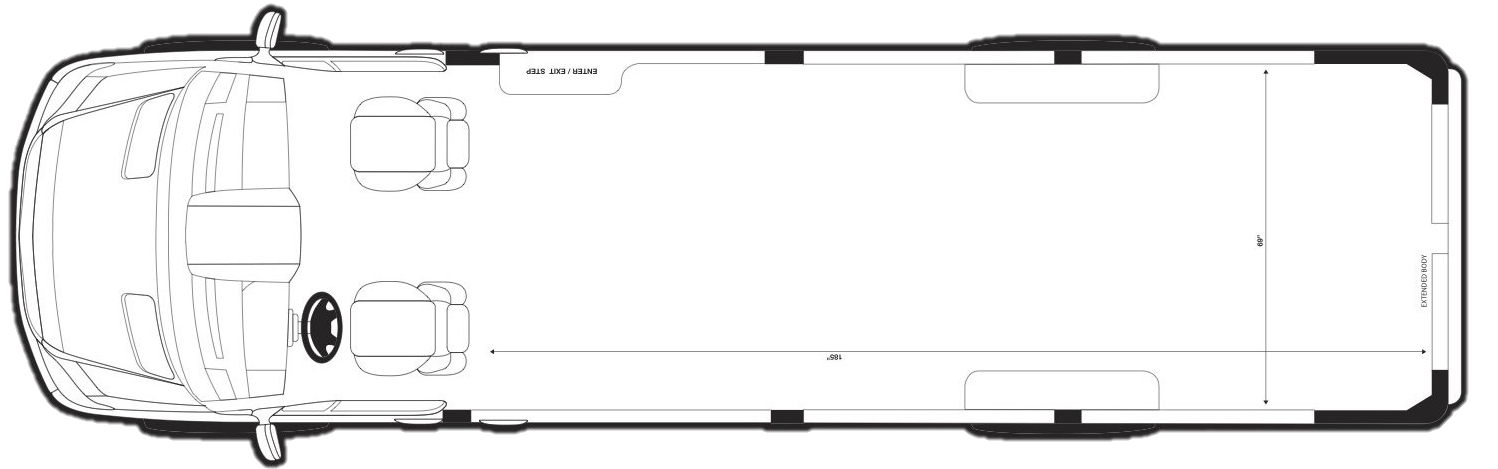
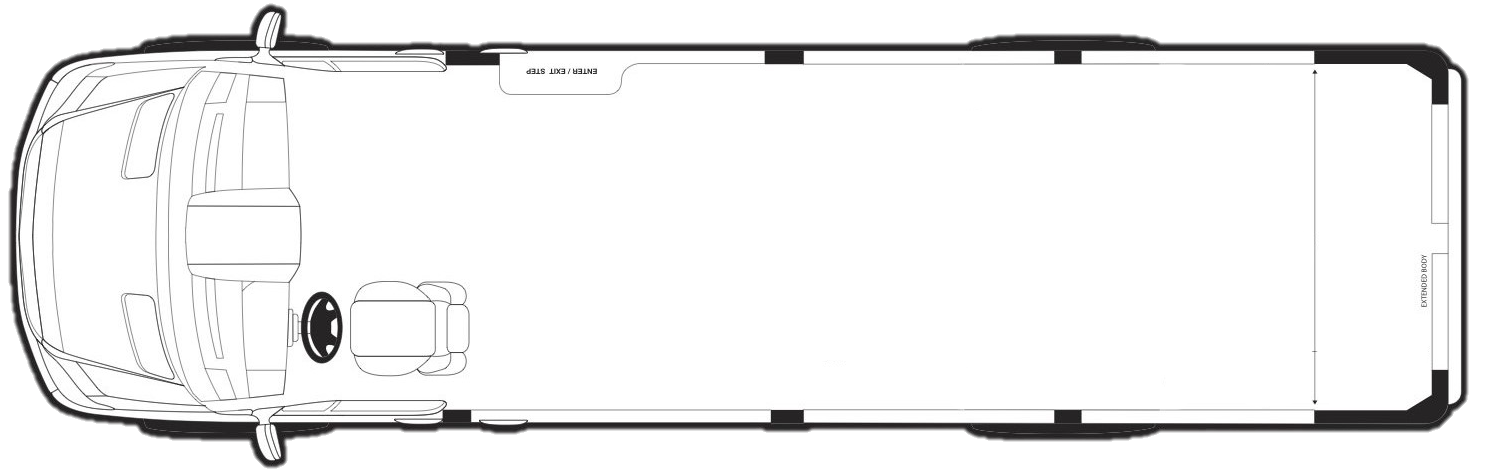
señalamientos y asientos diseño

diff --git a/assets/css/style.css b/assets/css/style.css
@@ -15,3 +15,85 @@
 .color-icono{
 	color: #000
 }
+/**
+ * diseño de los asientos dentro del camion
+ */
+.contenedor{
+    position: relative;
+    display: inline-block;
+    text-align: center;
+    width: 750px
+}
+ /*asientos centrales*/
+.texto-encima{
+    position: absolute;
+    top: 105px;
+    left: 250px;
+}
+/*asientos de lado del conductor*/
+.asiento-front{
+    position: absolute;
+    top: 35px;
+    left: 180px;
+}
+/*asientos del lado de la puerta*/
+.asiento-left{
+  position: absolute;
+  top: 35px;
+  left: 330px; 
+}
+/*asientos traseros 4*/
+.asiento-atras{
+  position: absolute;
+  top: 30px;
+  left: 565px; 
+}
+/*tamaño de los td en las tablas*/
+td{
+  width: 80px;
+  height: 40px
+}
+.scroll{
+  overflow-x: auto;
+    width: auto
+}
+/*fin del diseño de los asientos*/
+/**
+ * comienza diseño del marcador de señalamientos
+ */
+.disponible {
+ width: 20px; 
+ height: 20px; 
+ background: #419032;     
+ float: left;
+ border-radius: 4px;
+ box-shadow: -1px 1px 2px 0px rgba(0,0,0,0.75);
+}
+.ocupado {
+ width: 20px; 
+ height: 20px; 
+ background: #ED402E;
+ float: left;
+ border-radius: 4px;
+ box-shadow: -1px 1px 2px 0px rgba(0,0,0,0.75);
+},
+.text {      
+  float: left;
+}
+.margenes{
+  margin-left: 30px;
+}
+.margen{
+  margin-top: 5px
+}
+.selectc {
+ width: 20px; 
+ height: 20px; 
+ background: #D4BE33;
+ float: left;
+ border-radius: 4px;
+ box-shadow: -1px 1px 2px 0px rgba(0,0,0,0.75);
+}
+/**
+ * termina diseño de señalamientos
+ */

diff --git a/application/views/admin/corridas/corridas.php b/application/views/admin/corridas/corridas.php
@@ -1,25 +1,3 @@
-      <style type="text/css">
-        .contenedor{
-            position: relative;
-            display: inline-block;
-            text-align: center;
-            width: 750px
-        }
-         
-        .texto-encima{
-            position: absolute;
-            top: 40px;
-            left: 270px;
-        }
-        td{
-          width: 85px;
-          height: 50px
-        }
-        .scroll{
-          overflow-x: scroll;
-            width: auto
-        }
-      </style>
       <!-- Vista de contenido de las corridas -->
       <div class="row">
         <div class="col-md-8">
@@ -54,38 +32,61 @@
                   <div class="scroll">
                     <div class="contenedor">
                       <img src="<?= base_url() ?>assets/img/buss.png" width="700"><br><br><br>
-                      <!-- <div class="texto-encima">Texto</div> -->
-                      <table class="texto-encima">
+                      <!-- Asientos del lado del conductor -->
+                      <table class="asiento-front">
                         <tr>
-                          <td></td>
                           <td style="background: url('<?= base_url() ?>assets/img/asiento.jpg') no-repeat center center;background-size:50px">2</td>
-                          <td style="background: url('<?= base_url() ?>assets/img/asiento.jpg') no-repeat center center;background-size:50px">3</td>
-                          <td style="background: url('<?= base_url() ?>assets/img/asiento.jpg') no-repeat center center;background-size:50px">4</td>
-                          <!-- <td style="background: url('<?= base_url() ?>assets/img/asiento.jpg') no-repeat center center;background-size:50px">5</td> -->
                         </tr>
-                         <tr>
+                        <tr>
                           <td style="background: url('<?= base_url() ?>assets/img/asiento.jpg') no-repeat center center;background-size:50px">1</td>
-                          <td style="background: url('<?= base_url() ?>assets/img/asiento.jpg') no-repeat center center;background-size:50px">2</td>
-                          <td style="background: url('<?= base_url() ?>assets/img/asiento.jpg') no-repeat center center;background-size:50px">3</td>
-                          <td style="background: url('<?= base_url() ?>assets/img/asiento.jpg') no-repeat center center;background-size:50px">4</td>
-                          <!-- <td style="background: url('<?= base_url() ?>assets/img/asiento.jpg') no-repeat center center;background-size:50px">5</td> -->
-                        </tr>
-                         <tr>
-                          <td style="background: url('<?= base_url() ?>assets/img/asiento.jpg') no-repeat center center;background-size:50px">1</td>
-                          <td style="background: url('<?= base_url() ?>assets/img/asiento.jpg') no-repeat center center;background-size:50px">2</td>
-                          <td style="background: url('<?= base_url() ?>assets/img/asiento.jpg') no-repeat center center;background-size:50px">3</td>
-                          <td style="background: url('<?= base_url() ?>assets/img/asiento.jpg') no-repeat center center;background-size:50px">4</td>
-                          <!-- <td style="background: url('<?= base_url() ?>assets/img/asiento.jpg') no-repeat center center;background-size:50px">5</td> -->
                         </tr>
                       </table>
-                      <!-- <div class="centrado">Centrado</div> -->
+                      <!-- Asientos solos del lado de la puerta -->
+                      <table class="asiento-left">
+                        <tr>
+                          <td style="background: url('<?= base_url() ?>assets/img/asiento.jpg') no-repeat center center;background-size:50px">2</td>
+                          <td style="background: url('<?= base_url() ?>assets/img/asiento.jpg') no-repeat center center;background-size:50px">1</td>
+                          <td style="background: url('<?= base_url() ?>assets/img/asiento.jpg') no-repeat center center;background-size:50px">1</td>
+                        </tr>
+                      </table>
+                      <!-- asientos en pares -->
+                      <table class="texto-encima">
+                        <tr>
+                         <td style="background: url('<?= base_url() ?>assets/img/asiento.jpg') no-repeat center center;background-size:50px">1</td>
+                         <td style="background: url('<?= base_url() ?>assets/img/asiento.jpg') no-repeat center center;background-size:50px">2</td>
+                         <td style="background: url('<?= base_url() ?>assets/img/asiento.jpg') no-repeat center center;background-size:50px">3</td>
+                         <td style="background: url('<?= base_url() ?>assets/img/asiento.jpg') no-repeat center center;background-size:50px">4</td>
+                       </tr>
+                        <tr>
+                         <td style="background: url('<?= base_url() ?>assets/img/asiento.jpg') no-repeat center center;background-size:50px">1</td>
+                         <td style="background: url('<?= base_url() ?>assets/img/asiento.jpg') no-repeat center center;background-size:50px">2</td>
+                         <td style="background: url('<?= base_url() ?>assets/img/asiento.jpg') no-repeat center center;background-size:50px">3</td>
+                         <td style="background: url('<?= base_url() ?>assets/img/asiento.jpg') no-repeat center center;background-size:50px">4</td>
+                       </tr>
+                      </table>
+                      <!-- asientos traseros 4 -->
+                      <table class="asiento-atras">
+                        <tr>
+                          <td style="background: url('<?= base_url() ?>assets/img/asiento.jpg') no-repeat center center;background-size:50px">1</td>
+                        </tr>
+                        <tr>
+                          <td style="background: url('<?= base_url() ?>assets/img/asiento.jpg') no-repeat center center;background-size:50px">1</td>
+                        </tr>
+                        <tr>
+                          <td style="background: url('<?= base_url() ?>assets/img/asiento.jpg') no-repeat center center;background-size:50px">1</td>
+                        </tr>
+                        <tr>
+                          <td style="background: url('<?= base_url() ?>assets/img/asiento.jpg') no-repeat center center;background-size:50px">1</td>
+                        </tr>
+                      </table>
+
                     </div>                    
                   </div>
                 </div>
               </div>
             </div>
             <div class="box-footer clearfix">
-             <button type="button" class="btn btn-default pull-right">Salida</button>
+             <button type="button" class="btn btn-primary pull-right">Salida</button>
             </div>
           </div>
         </div>
